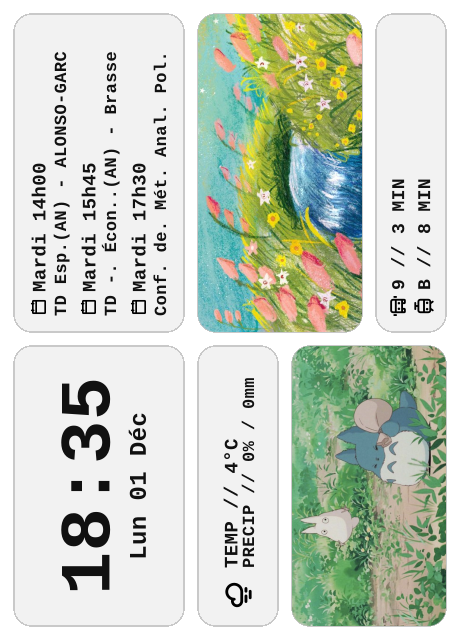
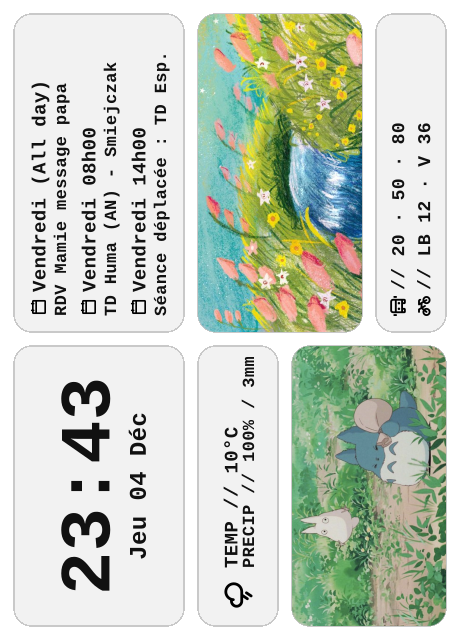
feat: Add support for fetching bus departures and bike availability from Bordeaux Métropole API

diff --git a/index.js b/index.js
@@ -23,6 +23,7 @@ const formatTimeLabel = (date) => eventTimeFormatter.format(date).replace(':', '
 const formatWeekdayLong = (date) => cap(date.toLocaleDateString('fr-FR', { weekday: 'long' }))
 const formatWeekdayShort = (date) => cap(date.toLocaleDateString('fr-FR', { weekday: 'short' }).replace('.', ''))
 const formatMonthShort = (date) => cap(date.toLocaleDateString('fr-FR', { month: 'short' }).replace('.', ''))
+const getParisTime = () => new Date(new Date().toLocaleString('en-US', { timeZone: 'Europe/Paris' }))
 
 const loadArtImage = async (baseName) => {
   const exts = ['png', 'jpg', 'jpeg', 'webp']
@@ -172,9 +173,135 @@ const fetchUpcomingCalendarEvents = async () => {
   })
 }
 
+const BUS_API_BASE_URL = 'https://data.bordeaux-metropole.fr/geojson/features/sv_horai_a?crs=epsg%3A4326&filter=%7B%0A%20%20%22rs_sv_arret_p%22%3A%20405%2C%0A%20%20%22etat%22%3A%20%22NON_REALISE%22%20%20%20%20%0A%7D&maxfeatures=3&orderby=%5B%22hor_theo%22%5D'
+let busApiKeyMissingLogged = false
+let bikeApiKeyMissingLogged = false
+
+const fetchBusDepartures = async () => {
+  const apiKey = process.env.BORDEAUX_API_KEY
+  if (!apiKey) {
+    if (!busApiKeyMissingLogged) {
+      console.warn('Missing BORDEAUX_API_KEY; showing placeholder bus data.')
+      busApiKeyMissingLogged = true
+    }
+    return []
+  }
+
+  const controller = new AbortController()
+  const timeoutId = setTimeout(() => controller.abort(), 10000)
+
+  try {
+    const response = await fetch(`${BUS_API_BASE_URL}&key=${encodeURIComponent(apiKey)}`, {
+      signal: controller.signal,
+      headers: { 'User-Agent': 'koreader-dashboard/1.0' }
+    })
+    const data = await response.json()
+    const now = Date.now()
+
+    const departures = (data?.features || [])
+      .map((feature) => {
+        const horTheo = feature?.properties?.hor_theo
+        if (!horTheo) return null
+
+        const horDate = new Date(horTheo)
+        if (Number.isNaN(horDate.getTime())) return null
+
+        const flooredMillis = Math.floor(horDate.getTime() / 60000) * 60000
+        const minutesUntil = Math.max(0, Math.floor((flooredMillis - now) / 60000))
+
+        return {
+          minutesUntil,
+          timestamp: flooredMillis
+        }
+      })
+      .filter(Boolean)
+      .sort((a, b) => a.timestamp - b.timestamp)
+
+    return departures.slice(0, 3)
+  } catch (error) {
+    console.error('Bus API error:', error)
+    return []
+  } finally {
+    clearTimeout(timeoutId)
+  }
+}
+
+const fetchBikeAvailability = async () => {
+  const parisNow = getParisTime()
+  const after6pm = parisNow.getHours() >= 18
+  const primaryName = after6pm ? 'Lycee Bremontier' : 'Nansouty'
+  const secondaryName = after6pm ? 'Victoire' : 'Doyen Brus'
+  const baseResult = {
+    primary: { name: primaryName, value: null },
+    secondary: { name: secondaryName, value: null }
+  }
+
+  const apiKey = process.env.BORDEAUX_API_KEY
+  if (!apiKey) {
+    if (!bikeApiKeyMissingLogged) {
+      console.warn('Missing BORDEAUX_API_KEY; showing placeholder bike data.')
+      bikeApiKeyMissingLogged = true
+    }
+    return baseResult
+  }
+
+  const controller = new AbortController()
+  const timeoutId = setTimeout(() => controller.abort(), 10000)
+
+  try {
+    const params = new URLSearchParams({
+      crs: 'epsg:4326',
+      filter: JSON.stringify({ $or: [{ Nom: primaryName }, { Nom: secondaryName }] }),
+      attributes: JSON.stringify(['NBPLACES', 'NBVELOS', 'NOM']),
+      maxfeatures: '2',
+      key: apiKey
+    })
+    const url = `https://data.bordeaux-metropole.fr/geojson/features/ci_vcub_p?${params.toString()}`
+
+    const response = await fetch(url, {
+      signal: controller.signal,
+      headers: { 'User-Agent': 'koreader-dashboard/1.0' }
+    })
+    const data = await response.json()
+
+    const toIntOrNull = (val) => {
+      if (val === null || val === undefined) return null
+      const num = Number.parseInt(val, 10)
+      return Number.isFinite(num) ? num : null
+    }
+
+    const stations = (data?.features || []).map((feature) => {
+      const props = feature?.properties || {}
+      const name = (props.nom || props.NOM || props.Nom || '').trim()
+      const nbplacesRaw = props.nbplaces ?? props.NBPLACES
+      const nbvelosRaw = props.nbvelos ?? props.NBVELOS
+      const nbplaces = toIntOrNull(nbplacesRaw)
+      const nbvelos = toIntOrNull(nbvelosRaw)
+      return { name, nbplaces, nbvelos }
+    })
+
+    const findStation = (targetName) => {
+      const wanted = targetName.toLowerCase()
+      return stations.find((s) => s.name.toLowerCase() === wanted)
+    }
+
+    const primaryStation = findStation(primaryName)
+    const secondaryStation = findStation(secondaryName)
+
+    return {
+      primary: { name: primaryName, value: primaryStation?.nbvelos ?? null },
+      secondary: { name: secondaryName, value: secondaryStation?.nbplaces ?? null }
+    }
+  } catch (error) {
+    console.error('Bike API error:', error)
+    return baseResult
+  } finally {
+    clearTimeout(timeoutId)
+  }
+}
+
 export async function renderTimePng () {
-  const now = new Date()
-  const parisTime = new Date(now.toLocaleString('en-US', { timeZone: 'Europe/Paris' }))
+  const parisTime = getParisTime()
   console.log('Paris time:', parisTime.toString())
   const hh = String(parisTime.getHours()).padStart(2, '0')
   const mm = String(parisTime.getMinutes()).padStart(2, '0')
@@ -280,15 +407,25 @@ export async function renderTimePng () {
     ? agendaItems
     : [{ title: 'NO UPCOMING EVENTS', timeLabel: '—' }]
 
+  const fetchedBusItems = await fetchBusDepartures()
+  const busMinutes = fetchedBusItems.length
+    ? fetchedBusItems.slice(0, 3).map((item) => item.minutesUntil)
+    : []
+  const busLineLabel = busMinutes.length ? `${busMinutes.join(' · ')}` : '—'
+
+  const bikeAvailability = await fetchBikeAvailability()
+  const initials = (name) => name.split(/\s+/).filter(Boolean).map((part) => part[0].toUpperCase()).join('').slice(0, 2)
+  const bikeLineLabel = `${initials(bikeAvailability.primary.name)} ${bikeAvailability.primary.value ?? '—'} · ${initials(bikeAvailability.secondary.name)} ${bikeAvailability.secondary.value ?? '—'}`
+
   const busItems = [
-    { route: '9', eta: '3 MIN', iconKey: 'bus' },
-    { route: 'B', eta: '8 MIN', iconKey: 'tram' }
+    { label: busLineLabel, iconKey: 'bus' },
+    { label: bikeLineLabel, iconKey: 'bike' }
   ]
 
-  // Bus/tram icons
+  // Bus/bike icons
   const busIconUrls = {
     bus: 'https://api.iconify.design/ph:bus-bold.svg',
-    tram: 'https://api.iconify.design/ph:tram-bold.svg'
+    bike: 'https://api.iconify.design/ph:bicycle-bold.svg'
   }
   const busIconData = {}
   const busIconKeys = [...new Set(busItems.map((item) => item.iconKey))]
@@ -436,7 +573,7 @@ export async function renderTimePng () {
               const icon = busIconData[item.iconKey] || ''
               return `<g transform="translate(${padding}, ${lineY})">
                 <image href="${icon}" x="0" y="-11" width="20" height="20" />
-                <text x="26" y="0" class="pixel-small" font-size="18" fill="${fg}" dominant-baseline="middle">${item.route} // ${item.eta}</text>
+                <text x="26" y="0" class="pixel-small" font-size="18" fill="${fg}" dominant-baseline="middle">// ${item.label}</text>
               </g>`
             }).join('')}
           </g>

diff --git a/README.md b/README.md
@@ -21,3 +21,6 @@ http://localhost:3000/dashboard.png
 
 Notes
 - The image is generated on each request using a small 5x7 pixel font scaled up and encoded to PNG.
+- Set secrets in `.env` (not committed):
+  - `CALENDARS` for ICS feeds (comma-separated).
+  - `BORDEAUX_API_KEY` for live bus departures from Bordeaux Métropole.
